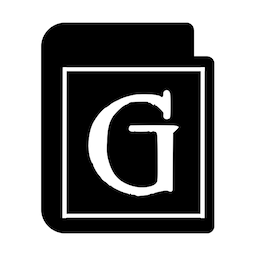
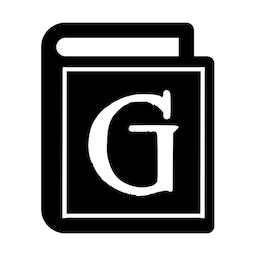
add webmanifest

Changed region(s): [[0.2188, 0.125, 0.7188, 0.25]]

diff --git a/index.html b/index.html
@@ -2,7 +2,7 @@
 <html lang='en'>
   <head>
     <title>The Great Gatsby Web-book</title>
-    <link rel="icon" type="image/x-icon" href='https://alboe.io/pieces/gatsbyOnTheInternet/gatsbyOnTheInternet.svg'>
+    <link rel="icon" type="image/x-icon" href='g-icon.svg'>
     <meta
       name='description'
       content='A free, lightweight HTML version of the Great Gatsby by F. Scott Fitzgerald (Public Domain). PDF alternative'
